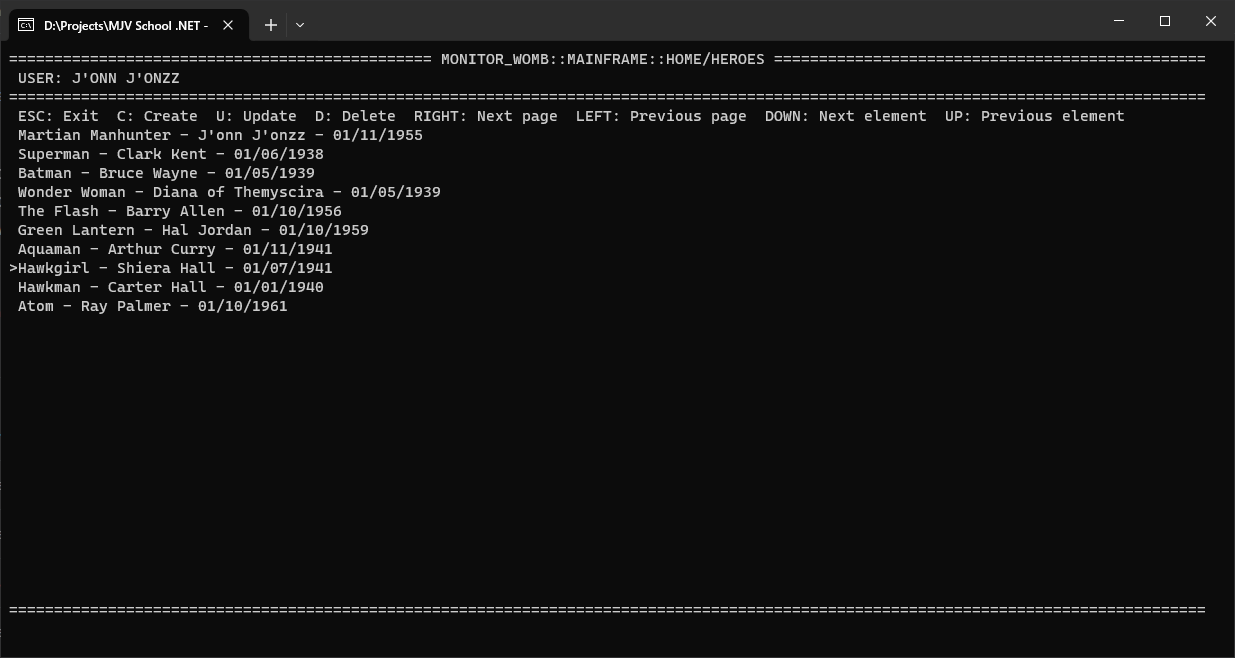
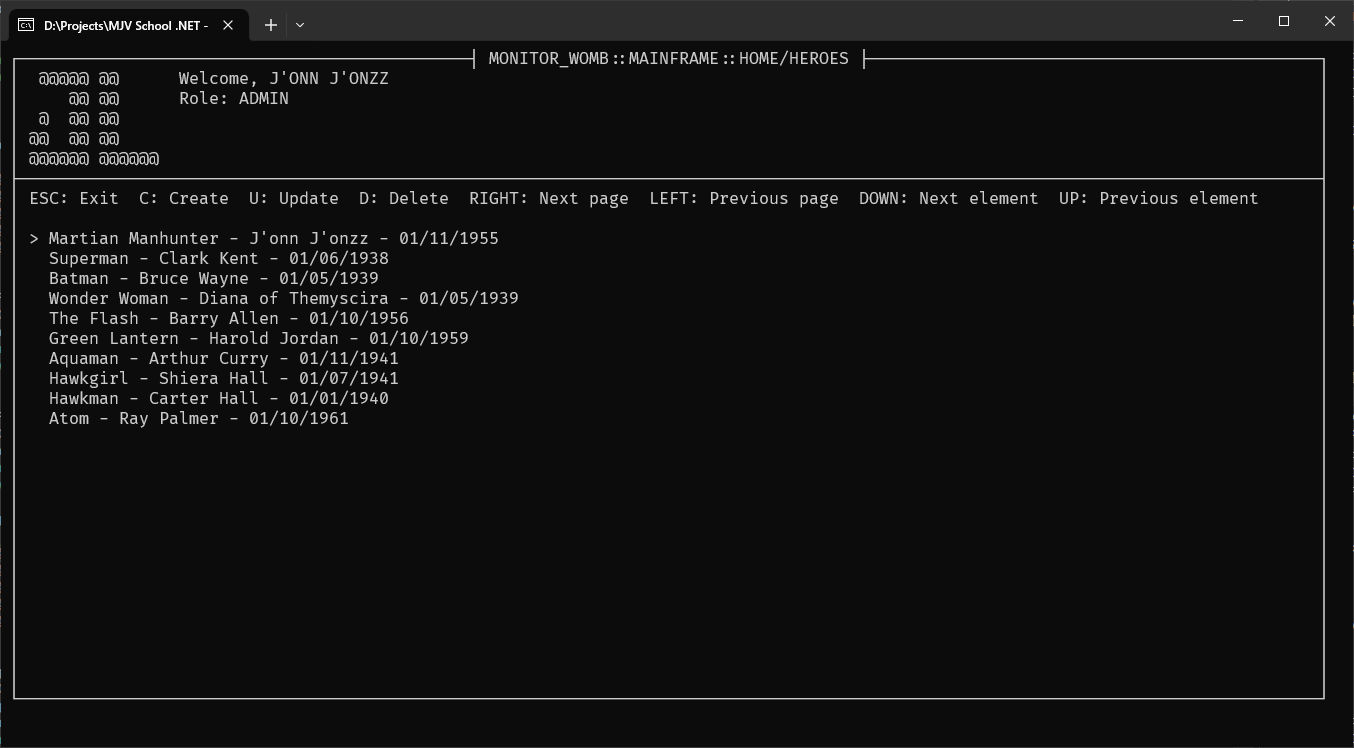
Implemente o desenho de bordas verticais

Changed region(s): [[0.0, 0.0, 1.0, 0.5775], [0.0, 0.9119, 0.9846, 0.9422]]

diff --git a/src/CrudDaJustica.Cli.Lib/Views/Frame.cs b/src/CrudDaJustica.Cli.Lib/Views/Frame.cs
@@ -1,4 +1,6 @@
-namespace CrudDaJustica.Cli.Lib.Views;
+using System.Text;
+
+namespace CrudDaJustica.Cli.Lib.Views;
 
 /// <summary>
 /// Represents a screen in the user interface.
@@ -8,16 +10,12 @@ public abstract class Frame : View
 	// Summary: A text to display on the center of the top border.
 	private readonly string title;
 
-	// Summary: The ASCII character used draw the horizontal borders on the console window.
-	private readonly char borderChar;
-
 	// Summary: Information to display on the upper console window.
-	private readonly Header header;
+	private readonly string[] header;
 
-	protected Frame(string title, char borderChar, Header header) : base()
+	protected Frame(string title, string[] header) : base()
 	{
 		this.title = title;
-		this.borderChar = borderChar;
 		this.header = header;
 	}
 
@@ -30,49 +28,105 @@ public abstract class Frame : View
 		base.Display();
 
 		DrawUpperBorder();
-		header.Display();
+		DrawHeader();
 		var rowAfterHeader = Console.GetCursorPosition().Top;
-		DrawLine(rowAfterHeader);
+		DrawSeparator(rowAfterHeader);
 		DrawLowerBorder();
 
 		Console.SetCursorPosition(left: 0, rowAfterHeader + 1);
 	}
 
-	// Summary: Draws the borderChar along the first row of the console buffer.
+	// Summary: Displays all keybindings in a single line of the console window.
+	protected void DisplayKeybindings()
+	{
+		var keybindingDisplay = new StringBuilder();
+		foreach (var keybinding in Keybindings)
+		{
+			keybindingDisplay.AppendFormat(" {0} ", keybinding);
+		}
+
+		DrawVerticalBorders(keybindingDisplay.ToString(), Console.WriteLine);
+		DrawVerticalBorders(string.Empty, Console.WriteLine);
+	}
+
+	// Summary: Draws vertical borders around a given line, padding it to the width of the console buffer.
+	//			Expects either Console.WriteLine or Console.Write as consoleWriter.
+	protected static void DrawVerticalBorders(string line, Action<string> consoleWriter)
+	{
+		var lineWithBorder = line
+			.PadLeft(line.Length + 1, '│')
+			.PadRight(Console.BufferWidth - 1)
+			.PadRight(Console.BufferWidth, '│');
+
+		consoleWriter.Invoke(lineWithBorder);
+	}
+
+	// Summary: Draws vertical borders starting from this row down to the antipenultimate row of the console buffer.
+	protected static void DrawVerticalBorders()
+	{
+
+		int startingRow = Console.GetCursorPosition().Top;
+		int antipenultimateRow = Console.BufferHeight - 2;
+		foreach (var _ in Enumerable.Range(startingRow, antipenultimateRow - startingRow))
+		{
+			DrawVerticalBorders(string.Empty, Console.WriteLine);
+		}
+	}
+
+	// Summary: Draws a line along the first row of the console buffer, placing downward corners on each end.
 	//          Writes the title in the middle of the row.
 	private void DrawUpperBorder()
 	{
-		Console.Clear();
-
 		var titleLength = this.title.Length;
 		var title = this.title
+			.Trim()
 			.PadLeft(titleLength + 1)
-			.PadRight(titleLength + 2);
+			.PadRight(titleLength + 2)
+			.PadLeft(titleLength + 3, '┤')
+			.PadRight(titleLength + 4, '├');
 
 		var leftpaddingSize = (Console.BufferWidth + title.Length) / 2;
 		var rightPaddingSize = Console.BufferWidth;
 		var upperBorder = title
-			.PadLeft(leftpaddingSize, borderChar)
-			.PadRight(rightPaddingSize, borderChar);
+			.PadLeft(leftpaddingSize - 1, '─')
+			.PadLeft(leftpaddingSize, '┌')
+			.PadRight(rightPaddingSize - 1, '─')
+			.PadRight(rightPaddingSize, '┐');
 
 		Console.WriteLine(upperBorder);
 	}
 
-	// Summary: Draws the borderChar across the last row of the console buffer.
-	private void DrawLowerBorder()
+	// Summary: Draws each line in the header between vertical borders.
+	private void DrawHeader()
 	{
-		var penultimateRow = Console.BufferHeight - 2;
-		DrawLine(penultimateRow);
+		foreach (var line in header)
+		{
+			DrawVerticalBorders(line, Console.WriteLine);
+		}
 	}
 
-	// Summary: Draws the borderChar across a given row of the console buffer.
-	private void DrawLine(int row)
+	// Summary: Draw a separator line in a given row of the console.
+	private static void DrawSeparator(int row)
 	{
-		var horizontalBorder = borderChar
-			.ToString()
-			.PadRight(Console.BufferWidth, borderChar);
+		DrawWithCorners(row, "├─", '┤');
+	}
+
+	// Summary: Draws a line across the penultimate row of the console buffer, placing upward corners on each end.
+	// Remarks: Drawing on the last row causes a scroll bar to appear.
+	private static void DrawLowerBorder()
+	{
+		var penultimateRow = Console.BufferHeight - 2;
+		DrawWithCorners(penultimateRow, "└─", '┘');
+	}
+
+	// Summary: Draw a line across a given row of the console buffer, placing corners on each end.
+	private static void DrawWithCorners(int row, string leftCorner, char rightCorner)
+	{
+		var separator = leftCorner
+			.PadRight(Console.BufferWidth - 1, '─')
+			.PadRight(Console.BufferWidth, rightCorner);
 
 		Console.SetCursorPosition(0, row);
-		Console.WriteLine(horizontalBorder);
+		Console.WriteLine(separator);
 	}
 }

diff --git a/src/CrudDaJustica.Cli.Lib/Views/Listing.cs b/src/CrudDaJustica.Cli.Lib/Views/Listing.cs
@@ -6,10 +6,10 @@ namespace CrudDaJustica.Cli.Lib.Views;
 /// Represents an interactable list of <see cref="T"/>.
 /// </summary>
 /// <typeparam name="T"> The type of the element to list on the screen. </typeparam>
-public class Listing<T> : Frame
+public class Listing<T> : Frame where T : notnull
 {
-	// Summary: The first column of the console buffer.
-	private const int FAR_LEFT_COORD = 0;
+	// Summary: The column of the console buffer where the ">" is drawn.
+	private const int SELECTOR_COLUMN = 2;
 
 	// Summary: The row of the first element of the listing being displayed, in console buffer coordinates.
 	private int firstRow;
@@ -35,7 +35,6 @@ public class Listing<T> : Frame
 	/// Initializes a new instance of the <see cref="Listing{T}"/> class.
 	/// </summary>
 	/// <param name="title"> The title to display on top of the screen. </param>
-	/// <param name="borderChar"> A character to draw on the borders of the console buffer. </param>
 	/// <param name="header"> Information to display on the top of the console buffer. </param>
 	/// <param name="listRetriever"> A reference to a method that retrieves the elements to be listed. </param>
 	/// <param name="exitKey"> The console key that will exit this view. </param>
@@ -45,8 +44,7 @@ public class Listing<T> : Frame
 	/// <param name="nextElement"> A key map used to select the next element in the <see cref="Listing{T}"/>. </param>
 	/// <param name="previousElement"> A key map used to select the previous element in the <see cref="Listing{T}"/>. </param>
 	public Listing(string title,
-		char borderChar,
-		Header header,
+		string[] header,
 		Func<IEnumerable<T>> listRetriever,
 		BindableKey exitKey,
 		Keybinding create,
@@ -55,7 +53,7 @@ public class Listing<T> : Frame
 		Keybinding nextPage,
 		Keybinding previousPage,
 		BindableKey nextElement,
-		BindableKey previousElement) : base(title, borderChar, header)
+		BindableKey previousElement) : base(title, header)
 	{
 		elements = new List<T>();
 		this.listRetriever = listRetriever;
@@ -87,6 +85,8 @@ public class Listing<T> : Frame
 			firstRow = Console.GetCursorPosition().Top;
 
 			ListElements();
+
+			DrawVerticalBorders();
 
 			// Stops the cursor from appearing at the top left of the console when the listing is first displayed.
 			if (currentRow <= firstRow)
@@ -124,9 +124,14 @@ public class Listing<T> : Frame
 
 		foreach (var element in elements)
 		{
-			Console.Write(" ");
-			Console.Write(element?.ToString());
-			Console.WriteLine();
+			var elementAsString = element
+				?.ToString();
+
+			// Puts a space between the border, the selector and the element.
+			var displayElement = elementAsString
+				?.PadLeft(elementAsString.Length + SELECTOR_COLUMN + 1);
+
+			DrawVerticalBorders(displayElement ?? string.Empty, Console.WriteLine);
 		}
 		lastRow = Console.GetCursorPosition().Top - 1;
 	}
@@ -159,7 +164,7 @@ public class Listing<T> : Frame
 		// Stops the ">" from being drawn on the screen when the listing has no elements.
 		if (elements.Any())
 		{
-			Console.SetCursorPosition(FAR_LEFT_COORD, row);
+			Console.SetCursorPosition(SELECTOR_COLUMN, row);
 			Console.Write(">");
 			currentRow = row;
 		}

diff --git a/src/CrudDaJustica.Cli.App/View/UI/CLI.cs b/src/CrudDaJustica.Cli.App/View/UI/CLI.cs
@@ -31,14 +31,17 @@ public class CLI
 
         // WARNING: Boilerplate ahead!
 
-        var formHeaderContent = new StringBuilder()
-            .AppendLine(" USER: J'ONN J'ONZZ")
-            .AppendLine(" Press ENTER to advance to the next field");
-        var formHeader = new Header(formHeaderContent);
+        var formHeader = new string[]
+        {
+            "  @@@@@ @@      Welcome, J'ONN J'ONZZ",
+            "     @@ @@      Role: ADMIN",
+            "  @  @@ @@      ",
+            " @@  @@ @@      ",
+            " @@@@@@ @@@@@@  Press ENTER to advance to the next field",
+        };
 
         heroCreateForm = new Form<HeroFormModel>(
             "MONITOR_WOMB::MAINFRAME::HOME/HEROES/CREATE",
-            '=',
             formHeader,
             new BindableKey(ConsoleKey.Escape, "ESC: Cancel"),
             new Keybinding(OnCreateHero, ConsoleKey.Enter, "ENTER: Confirm"));
@@ -46,19 +49,21 @@ public class CLI
 
         heroUpdateForm = new Form<HeroFormModel>(
             "MONITOR_WOMB::MAINFRAME::HOME/HEROES/UPDATE",
-            '=',
             formHeader,
             new BindableKey(ConsoleKey.Escape, "ESC: Cancel"),
             new Keybinding(OnUpdateHero, ConsoleKey.Enter, "ENTER: Confirm"));
 
-
-        var listingHeaderContents = new StringBuilder()
-            .AppendLine(" USER: J'ONN J'ONZZ");
-        var listingHeader = new Header(listingHeaderContents);
+        var listingHeader = new string[]
+        {
+            "  @@@@@ @@      Welcome, J'ONN J'ONZZ",
+            "     @@ @@      Role: ADMIN",
+            "  @  @@ @@      ",
+            " @@  @@ @@      ",
+            " @@@@@@ @@@@@@  ",
+        };
 
         heroListing = new Listing<HeroViewModel>(
             "MONITOR_WOMB::MAINFRAME::HOME/HEROES",
-            '=',
             listingHeader,
             heroController.List,
             new BindableKey(ConsoleKey.Escape, "ESC: Exit"),

diff --git a/src/CrudDaJustica.Cli.Lib/Forms/Form.cs b/src/CrudDaJustica.Cli.Lib/Forms/Form.cs
@@ -32,15 +32,13 @@ public class Form<T> : Frame where T : new()
 	/// Initializes a new instance of the <see cref="Form{T}"/> class.
 	/// </summary>
 	/// <param name="title"> The title to display on top of the screen. </param>
-	/// <param name="borderChar"> A character to draw on the borders of the console buffer. </param>
 	/// <param name="cancelKey"> An unbound console key that will discard all that in the the form. </param>
 	/// <param name="header"> Information to display on the top of the console buffer. </param>
 	/// <param name="confirmKey"> An unbound console key that will save the data in the form. </param>
 	public Form(string title,
-		char borderChar,
-		Header header,
+		string[] header,
 		BindableKey cancelKey,
-		Keybinding confirmKey) : base(title, borderChar, header)
+		Keybinding confirmKey) : base(title, header)
 	{
 		fields = new();
 		properties = new();
@@ -59,7 +57,6 @@ public class Form<T> : Frame where T : new()
 	/// </summary>
 	public override void Display()
 	{
-		Console.Clear();
 		base.Display();
 
 		InitializeFields();
@@ -109,10 +106,17 @@ public class Form<T> : Frame where T : new()
 
 		foreach (var prop in properties)
 		{
-			Console.Write(" {0}: ", prop.Name);
+			string field = string.Format(" {0}: ", prop.Name);
+			DrawVerticalBorders(field, Console.Write);
+
+			(var column, var row) = Console.GetCursorPosition();
+			Console.SetCursorPosition(field.Length + 1, row);
 			coords.Enqueue(Console.GetCursorPosition());
+
 			Console.WriteLine();
 		}
+
+		DrawVerticalBorders();
 
 		return coords;
 	}

diff --git a/src/CrudDaJustica.Cli.App/View/Models/HeroViewModel.cs b/src/CrudDaJustica.Cli.App/View/Models/HeroViewModel.cs
@@ -3,7 +3,7 @@
 /// <summary>
 /// Contains information about a hero that can be displayed in the user interface.
 /// </summary>
-public readonly struct HeroViewModel
+public class HeroViewModel
 {
     /// <summary>
     /// The name of a hero's secret identity.
@@ -42,8 +42,10 @@ public readonly struct HeroViewModel
 
     public override string ToString()
     {
-        // TODO Display "N/A" if fullName is null.
-        var fullName = string.Format("{0} {1}", FirstName, LastName);
+        var fullName = string.IsNullOrWhiteSpace(FirstName) || string.IsNullOrWhiteSpace(LastName)
+            ? "N/A"
+            : string.Format("{0} {1}", FirstName, LastName);
+
         return string.Format("{0} - {1} - {2}", Alias, fullName, Debut);
     }
 }

diff --git a/src/CrudDaJustica.Cli.Lib/Views/View.cs b/src/CrudDaJustica.Cli.Lib/Views/View.cs
@@ -28,17 +28,6 @@ public abstract class View
 		Console.CursorVisible = false;
 	}
 
-	// Summary: Displays all keybindings in a single line of the console window.
-	protected void DisplayKeybindings()
-	{
-		foreach (var keyMap in Keybindings)
-		{
-			Console.Write(" {0} ", keyMap);
-		}
-
-		Console.WriteLine();
-	}
-
 	// Summary: Invokes the first keybinding associated with a given key, if any exist.
 	protected void Invoke(ConsoleKey key)
 	{
